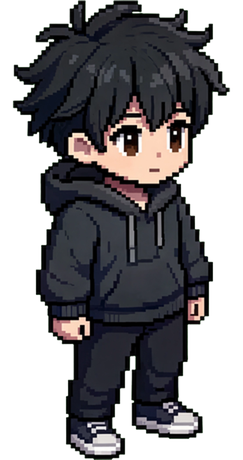
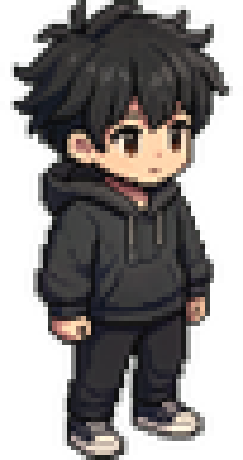
Pixel room v2.2: sprite blend pass (pixel-density match to room, warm grade), grounded contact+cast shadows, dynamic lamp lighting on characters

diff --git a/index.html b/index.html
@@ -21,8 +21,10 @@
   .sprite .fig { position:relative; width:100%; }
   .sprite .idle { display:block; width:100%; }
   .sprite .walk { display:none; width:100%; background-repeat:no-repeat; background-size:400% 100%; }
-  .sprite .shadow { position:absolute; left:50%; bottom:-2%; width:74%; height:9%; transform:translateX(-50%);
-                    background:rgba(0,0,0,.35); border-radius:50%; filter:blur(2px); }
+  .sprite .shadow { position:absolute; left:50%; bottom:-4%; width:88%; height:12%; transform:translateX(-50%); border-radius:50%;
+                    background:radial-gradient(ellipse at center, rgba(8,6,12,.55) 0%, rgba(8,6,12,.30) 55%, rgba(8,6,12,0) 72%); }
+  .sprite .shadow::after { content:""; position:absolute; left:-40%; top:35%; width:130%; height:160%; border-radius:50%;
+                    background:radial-gradient(ellipse at center, rgba(18,11,4,.30), rgba(18,11,4,0) 70%); transform:skewX(-22deg); filter:blur(3px); }
   .hint-dot { position:absolute; width:11px; height:11px; margin:-5px 0 0 -5px; border-radius:50%; border:2px solid rgba(255,236,190,.9);
               box-shadow:0 0 0 3px rgba(90,60,20,.35), inset 0 0 4px rgba(255,255,255,.6); z-index:30; pointer-events:none;
               animation:pulse 2.4s ease-in-out infinite; transition:opacity .6s; }
@@ -185,6 +187,9 @@ function placeChar(c){ const depth = .88 + (c.y-.555)*.55;
   c.el.style.left = (c.x*100)+'%'; c.el.style.top = (c.y*100)+'%';
   c.el.style.width = (c.wPct*depth)+'%'; c.el.style.zIndex = Math.round(c.y*100);
   c.fig.style.transform = `scaleX(${c.face})`;
+  const lamp = Math.max(0, 1 - Math.hypot(c.x-.80, (c.y-.62)*1.6)/.50);
+  const fstr = `brightness(${(.90+.14*lamp).toFixed(3)}) sepia(${(.08+.16*lamp).toFixed(3)}) saturate(${(.95+.04*lamp).toFixed(3)})`;
+  if(c._f !== fstr){ c.fig.style.filter = fstr; c._f = fstr; }
   if(c.moving){ c.idleEl.style.display='none'; c.walkEl.style.display='block';
     c.walkEl.style.backgroundPosition = `${Math.floor(c.frameT)%4 * (100/3)}% 0`; }
   else { c.idleEl.style.display='block'; c.walkEl.style.display='none'; }
